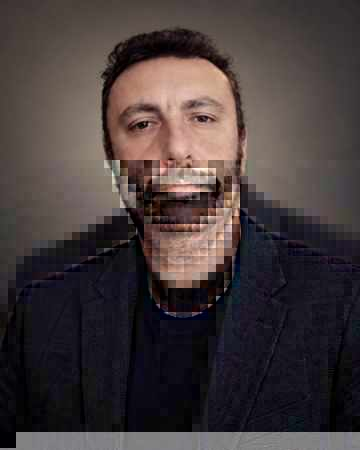
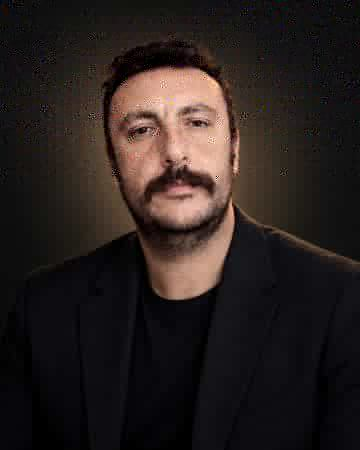
Update producer profile and social preview

diff --git a/index.html b/index.html
@@ -3,7 +3,27 @@
 <head>
   <meta charset="UTF-8" />
   <meta name="viewport" content="width=device-width, initial-scale=1.0" />
+
   <title>Aver Production</title>
+  <meta name="description" content="Aver Production" />
+  <meta name="robots" content="index, follow" />
+  <link rel="canonical" href="https://test2deploy.github.io/aver-production/" />
+
+  <meta property="og:type" content="website" />
+  <meta property="og:title" content="Aver Production" />
+  <meta property="og:description" content="Aver Production" />
+  <meta property="og:url" content="https://test2deploy.github.io/aver-production/" />
+  <meta property="og:image" content="https://test2deploy.github.io/aver-production/assets/images/aver-og.jpg" />
+  <meta property="og:image:type" content="image/jpeg" />
+  <meta property="og:image:width" content="300" />
+  <meta property="og:image:height" content="158" />
+
+  <meta name="twitter:card" content="summary_large_image" />
+  <meta name="twitter:title" content="Aver Production" />
+  <meta name="twitter:description" content="Aver Production" />
+  <meta name="twitter:image" content="https://test2deploy.github.io/aver-production/assets/images/aver-og.jpg" />
+
+  <link rel="image_src" href="https://test2deploy.github.io/aver-production/assets/images/aver-og.jpg" />
   <link rel="stylesheet" href="style.css" />
 </head>
 <body>
@@ -251,10 +271,10 @@
 
       <p
         class="translate"
-        data-en="Avni Mumcu is a producer at Aver Production, bringing a technology and quality assurance background into creative development and production coordination. He focuses on structured execution, digital workflows, and helping original ideas move from concept to production-ready projects."
-        data-tr="Avni Mumcu, Aver Production’da yapımcı olarak yaratıcı proje geliştirme ve yapım koordinasyonu alanlarında çalışır. Teknoloji ve kalite güvence geçmişinden gelen düzenli, detay odaklı yaklaşımıyla fikirlerin netleşmesine, iş akışlarının kurulmasına ve projelerin uygulanabilir hale gelmesine katkı sağlar."
+        data-en="Avni Mumcu is a producer at Aver Production. He brings a technology and quality assurance background to production coordination, digital workflows, and project development."
+        data-tr="Avni Mumcu, Aver Production’da yapımcı olarak çalışır. Teknoloji ve kalite güvence geçmişini yapım koordinasyonu, dijital iş akışları ve proje geliştirme süreçlerine taşır."
       >
-        Avni Mumcu is a producer at Aver Production, bringing a technology and quality assurance background into creative development and production coordination. He focuses on structured execution, digital workflows, and helping original ideas move from concept to production-ready projects.
+        Avni Mumcu is a producer at Aver Production. He brings a technology and quality assurance background to production coordination, digital workflows, and project development.
       </p>
     </div>
 
